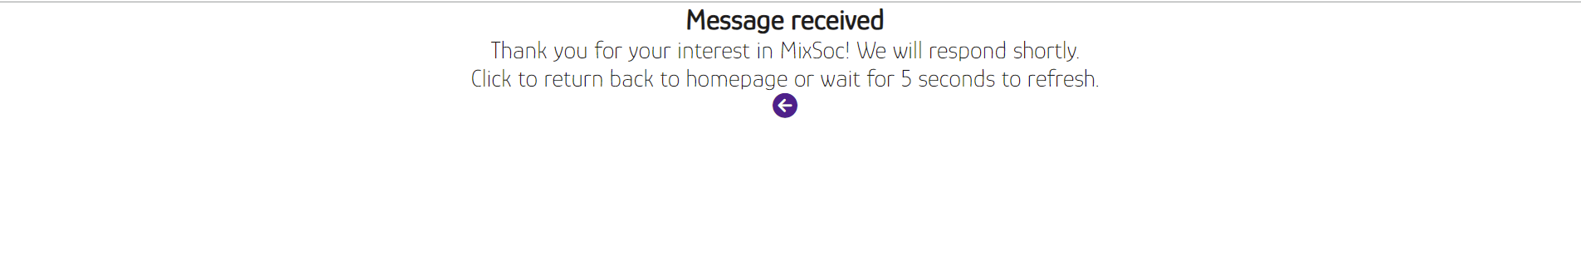
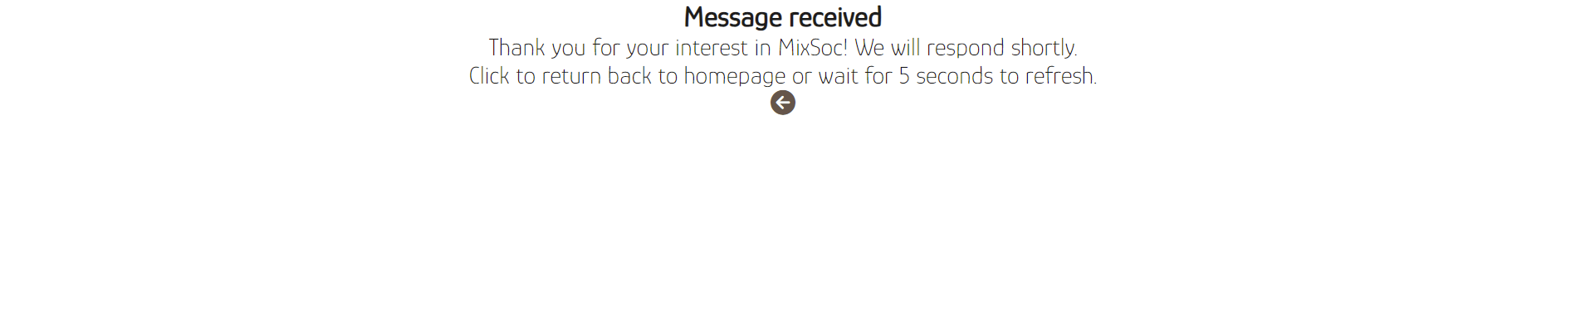
sign up confirmation button colour changed and hover effect added

Changed region(s): [[0.0, 0.0, 1.0, 0.4396]]

diff --git a/assets/css/style.css b/assets/css/style.css
@@ -257,6 +257,14 @@ button:hover {
     text-align: center;
 }
 
+.response-page i {
+    color: var(--chestnut);
+}
+
+.response-page i:hover{
+    color: var(--mustard);
+}
+
 /* Media Query*/
 
 @media (min-width: 992px) {

diff --git a/README.md b/README.md
@@ -41,6 +41,8 @@ The last update to this file was: **January 22nd, 2024**
     - [Home Section](#home-section)
     - [About Us Section](#about-us-section)
     - [Sign Up Section](#sign-up-section)
+    - [Footer](#footer)
+  - [Future actions - Features to be Implemented](#future-actions---features-to-be-implemented)
 - [Technologies used](#technologies-used)
   - [Languages](#languages)
   - [IDE](#ide)
@@ -268,7 +270,8 @@ The navigation bar is responsive for various screen sizes. It includes links to 
     &nbsp;
 
 - On submission of the form, the page is redirected to a submission confirmation; this notifies the user that their details have been received.
-- Also, the user is informed that they can either wait for 5 seconds for the page to refresh back to the home section or click on the button to do so.
+- Also, the user is informed that they can either wait for 5 seconds for the page to refresh back to the home section or click on the 'button' to do so.
+- The 'button', which is actually a link changes color when hovered for improved user experience.
     \
     &nbsp;
 
@@ -277,6 +280,44 @@ The navigation bar is responsive for various screen sizes. It includes links to 
 - Additional Notes
   
   - The method of the form is a GET action of response.html instead of a POST to CI form dump to avoid third-party personal data storage
+
+\
+&nbsp;
+[Back to Top](#table-of-contents)
+\
+&nbsp;
+
+### Footer
+
+- The footer contains the social media links and contact information. These social links all open in a new tab and have an attribute of rel nonopener to act as a disclaimer.
+    &nbsp;
+
+    ![Footer Section](assets/features/footer.png)
+    \
+    &nbsp;
+
+- There is also a hover effect over the links, again to improve user experience.
+    \
+    &nbsp;
+
+    ![Footer Hover Feature](assets/features/footer-hover.png)
+    \
+    &nbsp;
+
+- An extra feature the footer has, is that users can download a free recipe in a pdf form. The download icon link also has a hover effect and the downloadable pdf opens up in a new tab. As a note, the pdf is for demo purposes.
+    \
+    &nbsp;
+
+    ![Downloadable Recipe PDF](assets/features/footer-hover.png)
+    \
+    &nbsp;
+
+## Future actions - Features to be Implemented
+
+- For smaller devices, include hamburger icon that can open and close column navigation menu.
+- Make the logo of society a link to return back to the home section.
+- Add a photo gallery section would be added.
+- Make the email address in the footer a link. It would open up the user's email browser in a pop up, with the society's email copied over.
 
 \
 &nbsp;
